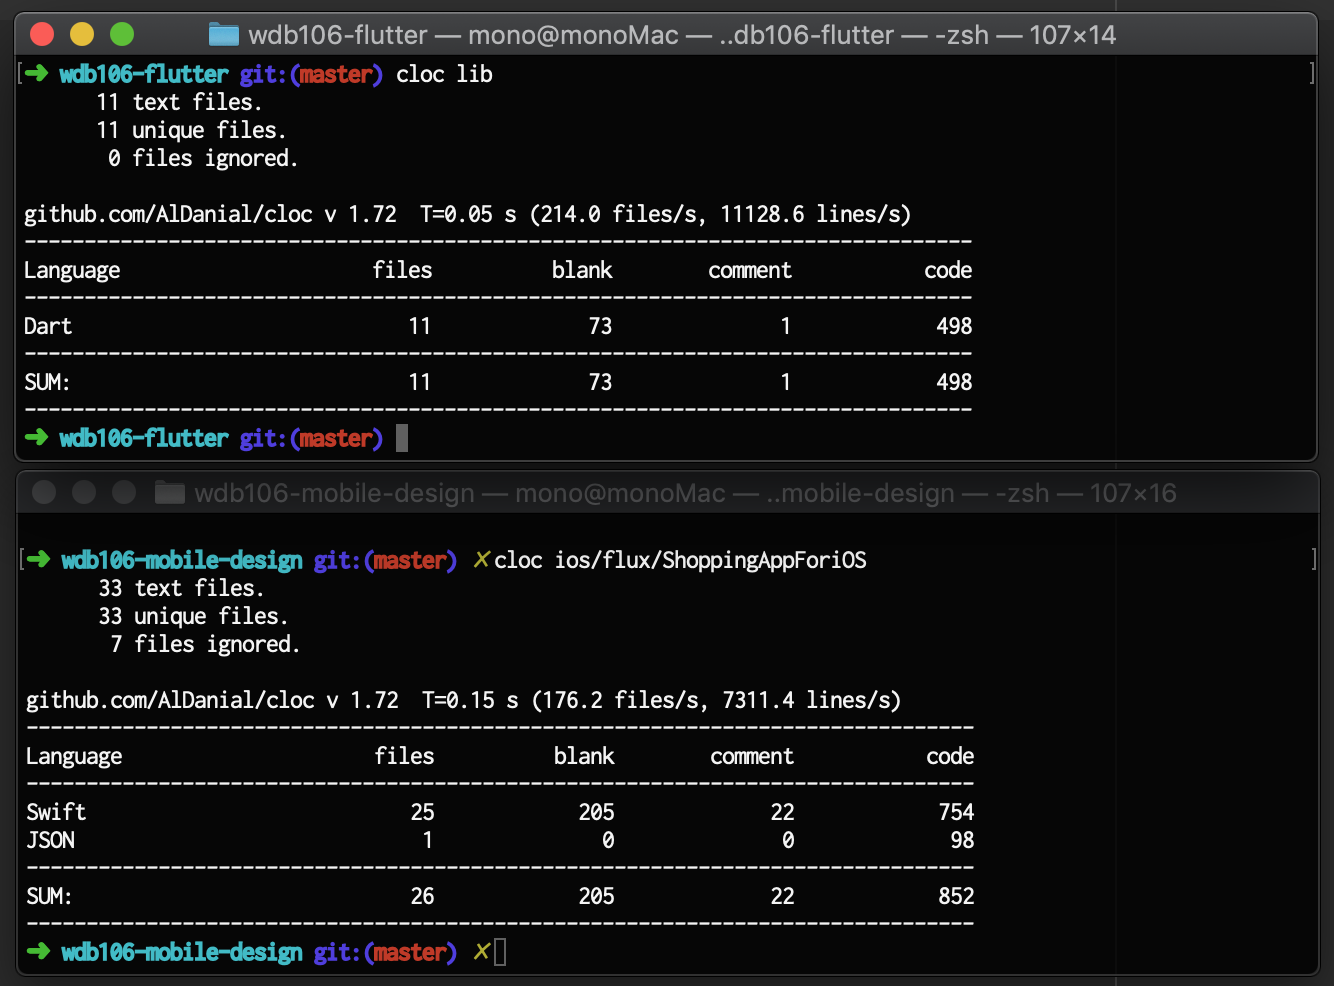
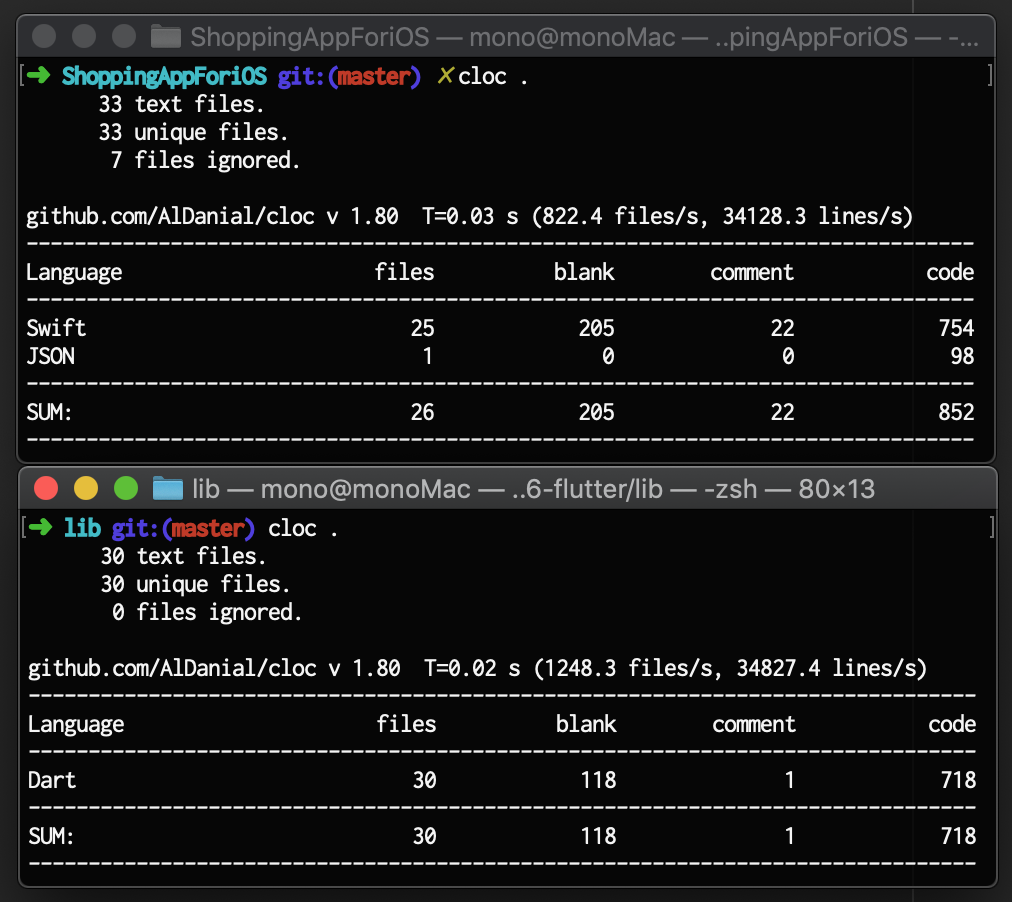
Update README

diff --git a/README.md b/README.md
@@ -18,8 +18,9 @@
 
 ## コード量比較(あくまで一つの目安)
 
-- [cloc](https://github.com/AlDanial/cloc)で計測したところ、iOSネイティブのfluxサンプルのSwiftコード(Storyboardなどの画面コードは対象外)と比べて、FlutterのDartコード(画面コード込み)だと65%くらいの行数
-  - (iOSネイティブのmvvmサンプルは未実装部分があったので比較する意味無し)
+- [cloc](https://github.com/AlDanial/cloc)で計測したところ、iOSネイティブのfluxサンプルのSwiftコードと比べて、FlutterのDartコードの方が若干少ない
+  - iOSネイティブの方はStoryboardなどの画面コードが別途あるが、Flutterはコードにすべて含まれていることを考慮するとかなりコンパクトに書けている
+  - (iOSネイティブのmvvmサンプルは未実装部分があったので割愛)
 
 ![clocの結果](screen_shots/cloc.png)
 
